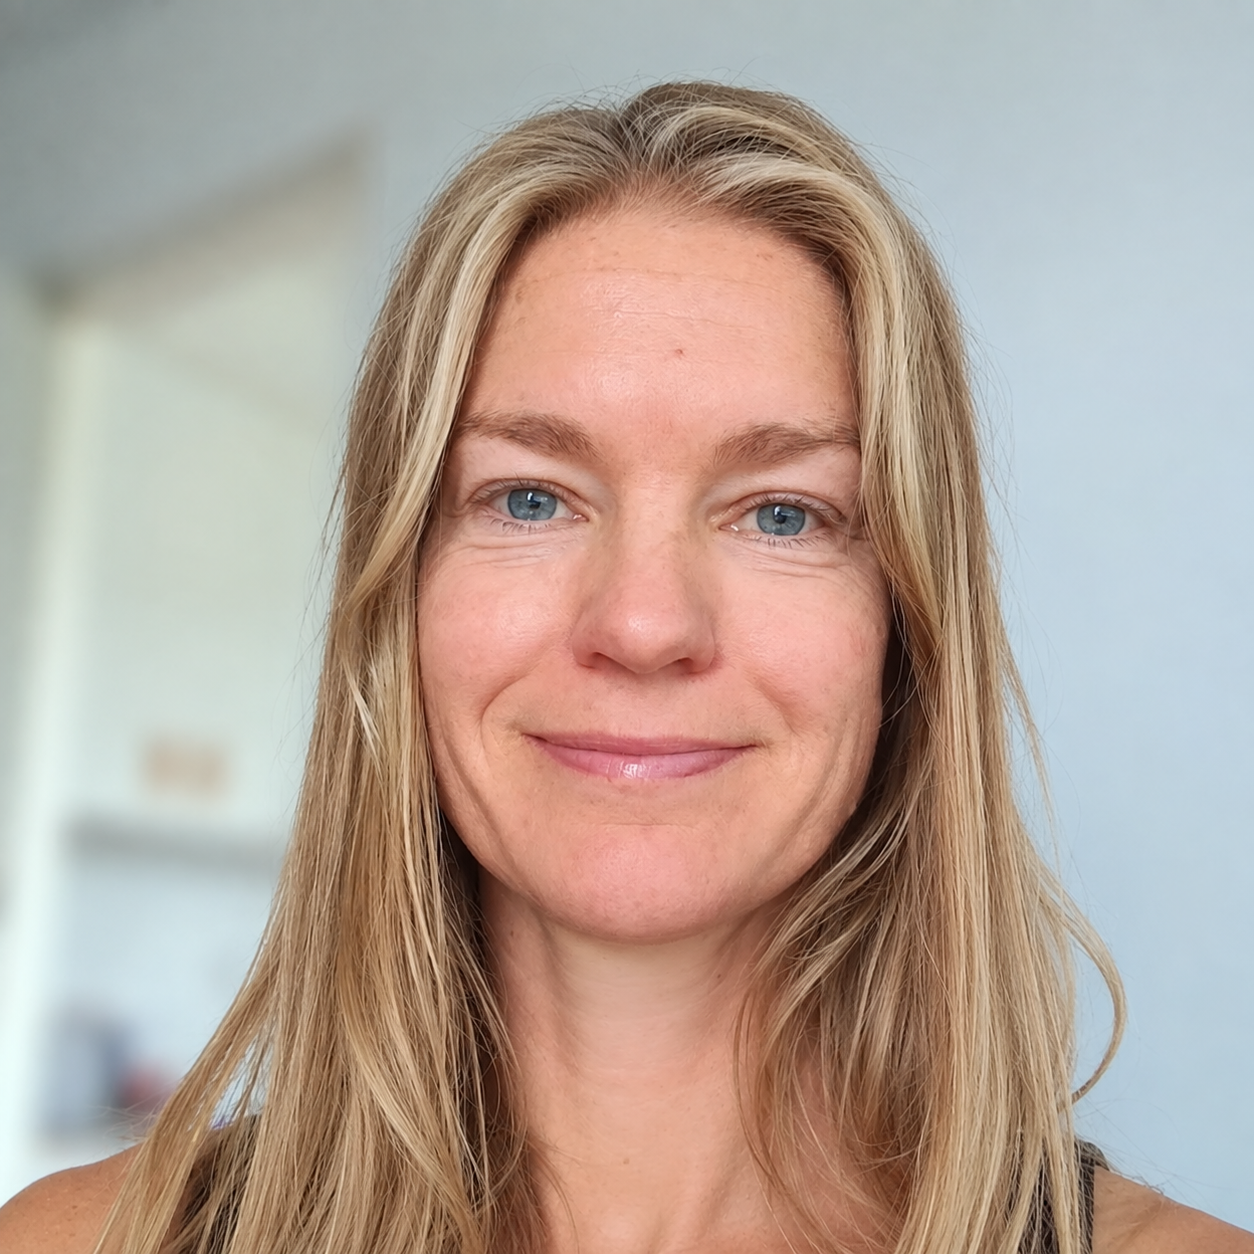
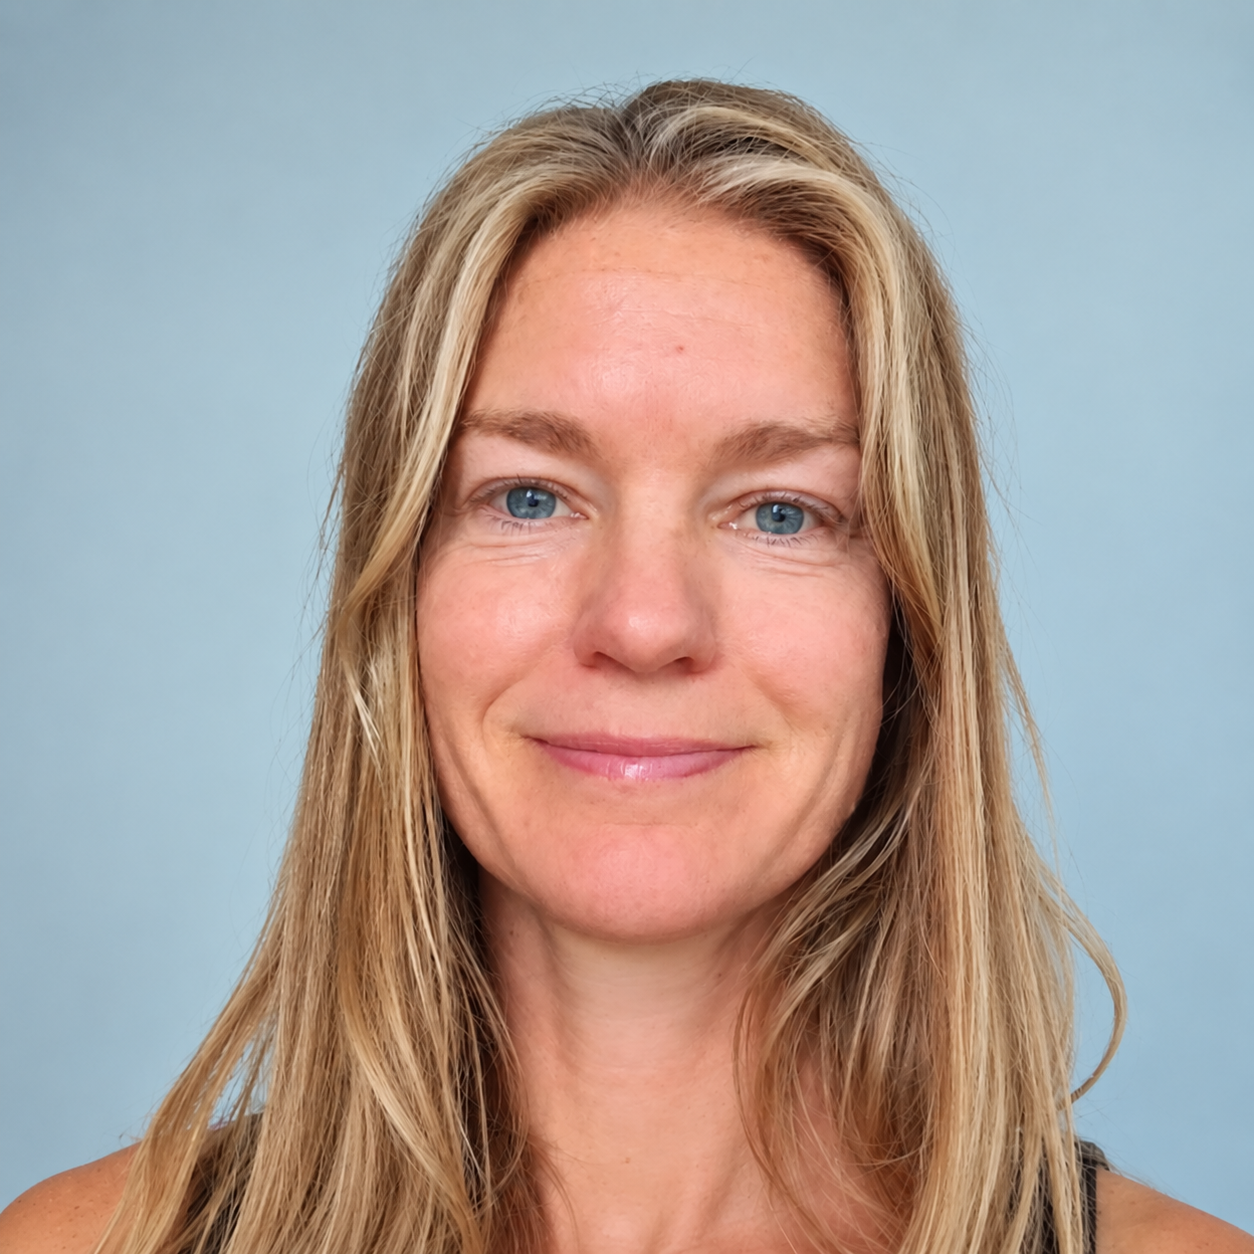
f

diff --git a/index.html b/index.html
@@ -139,15 +139,19 @@ Discover this source of calm, clarity and connection.
 
             <h2>About Me</h2>
 
-            <p>
-                Welcome! I'm Christine, founder of Inside Bodywork.
-            </p>
+ <p>Welcome! I'm Christine, currently based in Sweden and working internationally.</p>
 
-            <p>
-                My work is about creating a safe space where you can reconnect
-                with yourself through presence, gentle guidance and body awareness.
-            </p>
+<p>
+    My work is about creating a safe space where you can
+    connect with yourself, relax, let go and unfold through presence,
+    bodywork, touch and self-reflection.
+</p>
 
+<p>
+    When you start to be more honest and kind with yourself, you can become
+    more authentic, and your relationships can become deeper and more meaningful,
+    and so can the life you live.
+</p>
             <a href="CV.html" class="about-button">
     Read my CV
 </a>

diff --git a/css/style.css b/css/style.css
@@ -17,7 +17,7 @@ p {
     max-width: 90%;
     margin: 30px auto;
     text-align: center;
-    font-size: 24px;
+    font-size: 20px;
     line-height: 1.7;
 }
 
@@ -369,7 +369,7 @@ nav {
     .about p {
         width: auto;
         max-width: 100%;
-        font-size: 22px;
+        font-size: 20px;
     }
 
     .cards {
@@ -388,7 +388,7 @@ nav {
 
     .hero p {
         width: 90%;
-        font-size: 22px;
+        font-size: 20px;
     }
 
     .button {
@@ -938,4 +938,7 @@ nav {
     font-weight: normal;
     text-align: left;
     margin-left: 0;
+}
+.about-text p {
+    margin-bottom: 25px;
 }
